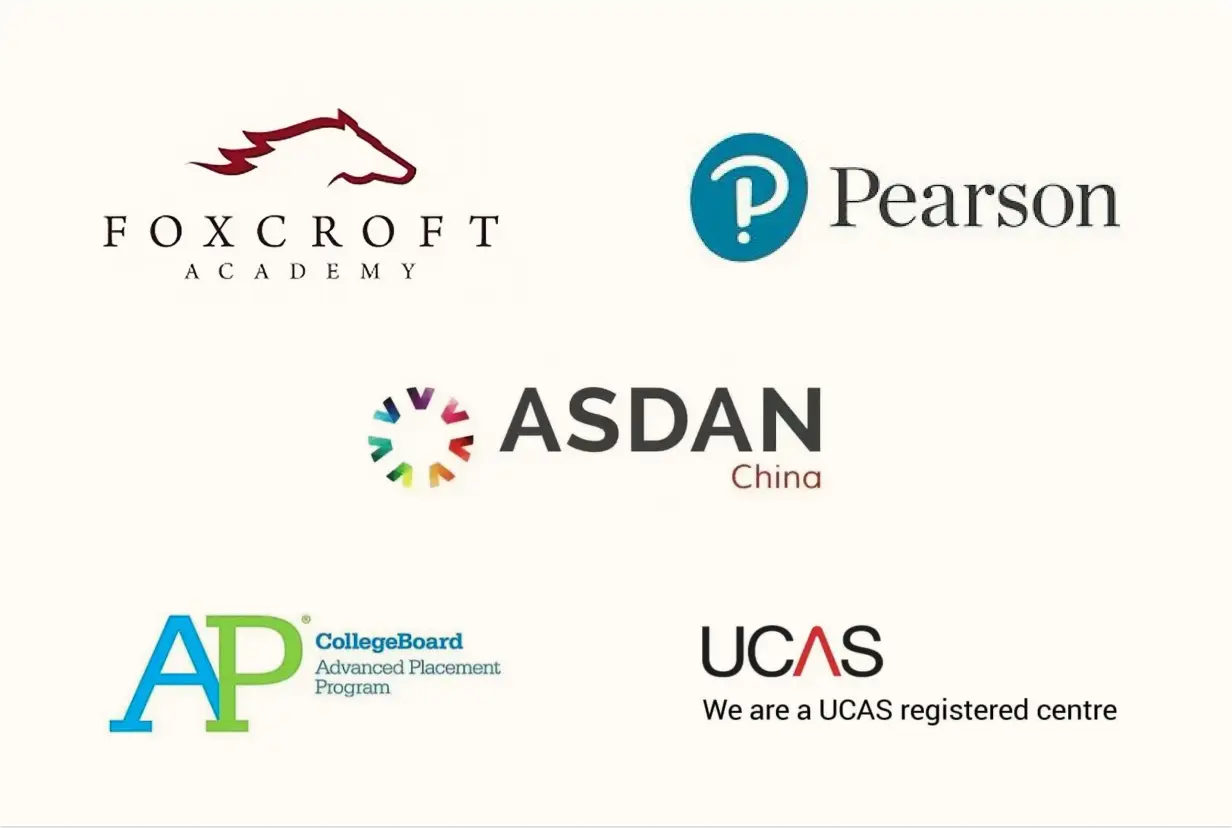
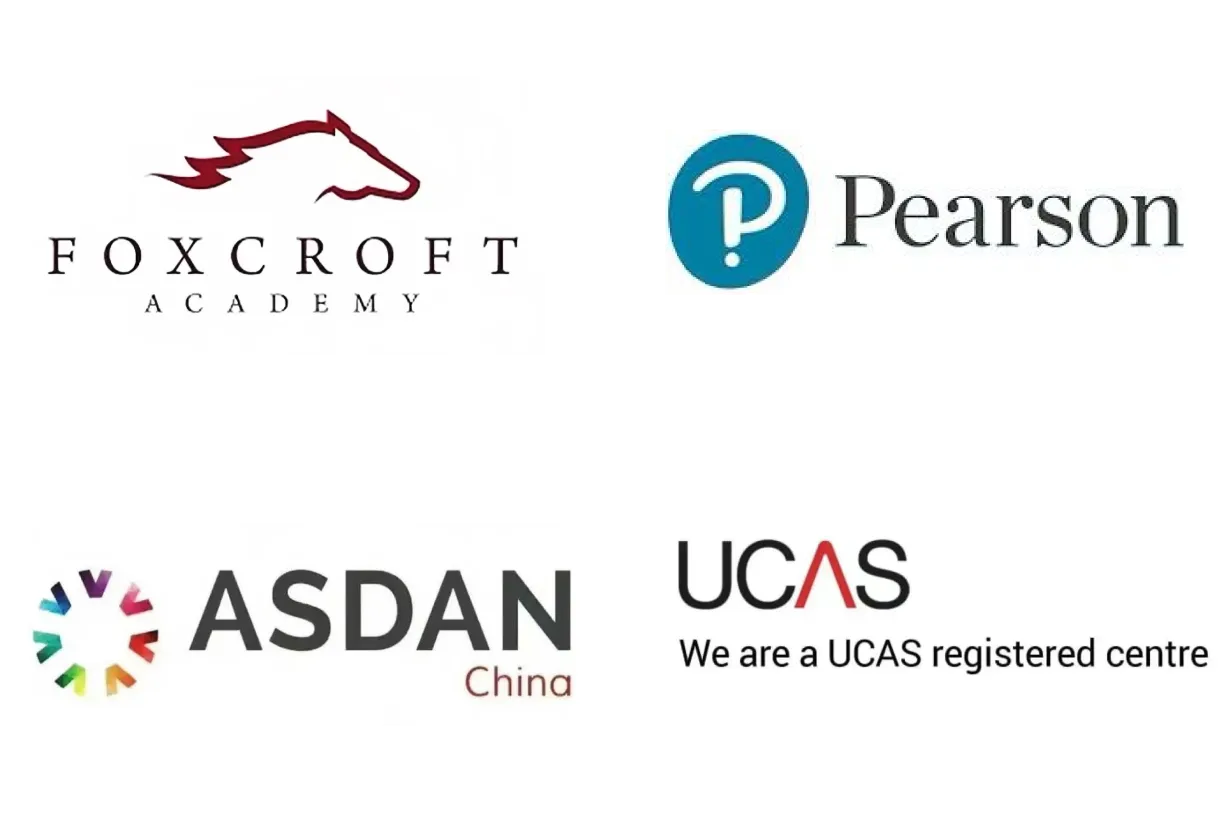
fix 网页内容修改

diff --git a/hsd_website/src/app/zh/course/advantage/advantage.module.scss b/hsd_website/src/app/zh/course/advantage/advantage.module.scss
@@ -127,29 +127,16 @@
                     }
                 }
             }
-            .content_top {
-                margin-top: 2.5rem;
-                display: flex;
-                justify-content: space-between;
-                .picture {
-                    img {
-                        width: 43.13rem;
-                        height: 31.19rem;
-                    }
-                }
-                .lists {
-                    margin-left: 4rem;
-                }
-            }
             .content_bottom {
                 margin-top: 5rem;
                 display: flex;
                 justify-content: space-between;
+                align-items: center;
                 .picture {
                     margin-left: 4rem;
                     img {
                         width: 43.13rem;
-                        height: 37.5rem;
+                        height: auto;
                     }
                 }
             }
@@ -286,30 +273,16 @@
                     }
                 }
             }
-            .content_top {
-                margin-top: 2.5rem;
-                display: flex;
-                justify-content: space-between;
-                align-items: center;
-                .picture {
-                    img {
-                        width: 40rem;
-                        height: 30rem;
-                    }
-                }
-                .lists {
-                    margin-left: 3rem;
-                }
-            }
             .content_bottom {
                 margin-top: 5rem;
                 display: flex;
                 justify-content: space-between;
+                align-items: center;
                 .picture {
                     margin-left: 3rem;
                     img {
                         width: 40rem;
-                        height: 36rem;
+                        height: auto;
                     }
                 }
             }
@@ -443,30 +416,17 @@
                     }
                 }
             }
-            .content_top {
-                margin-top: 2.5rem;
-                display: flex;
-                justify-content: space-between;
-                align-items: center;
-                .picture {
-                    img {
-                        width: 36rem;
-                        height: 27rem;
-                    }
-                }
-                .lists {
-                    margin-left: 2rem;
-                }
-            }
             .content_bottom {
                 margin-top: 5rem;
                 display: flex;
                 justify-content: space-between;
+                align-items: center;
+
                 .picture {
                     margin-left: 2rem;
                     img {
                         width: 36rem;
-                        height: 34rem;
+                        height: auto;
                     }
                 }
             }
@@ -602,21 +562,6 @@
                     }
                 }
             }
-            .content_top {
-                margin-top: 2.5rem;
-                display: flex;
-                justify-content: space-between;
-                align-items: center;
-                .picture {
-                    img {
-                        width: 26rem;
-                        height: 20rem;
-                    }
-                }
-                .lists {
-                    margin-left: 2rem;
-                }
-            }
             .content_bottom {
                 margin-top: 5rem;
                 display: flex;
@@ -626,7 +571,7 @@
                     margin-left: 2rem;
                     img {
                         width: 26rem;
-                        height: 25rem;
+                        height: auto;
                     }
                 }
             }
@@ -757,16 +702,6 @@
                                 }
                             }
                         }
-                    }
-                }
-            }
-            .content_top {
-                margin-top: 2.5rem;
-                .picture {
-                    margin-bottom: 2rem;
-                    img {
-                        width: 100%;
-                        height: auto;
                     }
                 }
             }
@@ -907,16 +842,6 @@
                                 }
                             }
                         }
-                    }
-                }
-            }
-            .content_top {
-                margin-top: 2.5rem;
-                .picture {
-                    margin-bottom: 2rem;
-                    img {
-                        width: 100%;
-                        height: auto;
                     }
                 }
             }

diff --git a/hsd_website/src/app/zh/school/teaching/feature/feature.tsx b/hsd_website/src/app/zh/school/teaching/feature/feature.tsx
@@ -23,7 +23,6 @@ function Feature() {
       tips: [
         { id: 1, label: 'Foxcroft Academy 友好学校' },
         { id: 2, label: 'Edexcel 官方授权考试中心' },
-        { id: 3, label: 'AP授权学校' },
         { id: 4, label: 'UCAS官方注册中心' },
         { id: 5, label: 'ASDAN（阿思丹）国际理科竞赛官方考点' },
       ]
@@ -40,9 +39,9 @@ function Feature() {
       ]
     }, {
       id: 3,
-      title: '体制内管理模式',
+      title: '严格教学落地',
       serial: '03',
-      desc: '作息规律，管理严格，帮助学生提高自主管理能力，力求更好的升学结果',
+      desc: '教学从入校即抓：设置雅思课程，下午补差或竞赛辅导，晚间课程查漏补缺。学科老师与助教共同确保学习效果落地，关注每位学生的全面成长。',
       picture: tfImg3,
       tips: []
     }, {
@@ -53,14 +52,14 @@ function Feature() {
       picture: tfImg4,
       tips: [
         { id: 1, label: '安排每周不少于10节中方英语及外方英语课程' },
-        { id: 2, label: '每周日下午开设公益雅思/托福课程' },
+        { id: 2, label: '开设校内雅思课程' },
         { id: 3, label: '组织英语辩论社团' },
       ]
     }, {
       id: 5,
       title: '个性化升学服务',
       serial: '05',
-      desc: '为每位学生提供科学个性化的一对一申请规划指导，覆盖高一至高三全学段',
+      desc: '为每位学生提供科学个性化的申请规划指导，覆盖高一至高三全学段',
       picture: tfImg5,
       tips: [
         { id: 1, label: '全面评估学术成绩、兴趣特长' },
@@ -74,7 +73,7 @@ function Feature() {
       desc: '科学评估学术表现，科学定制评估体系，全程辅导提升学生成绩。',
       picture: tfImg6,
       tips: [
-        { id: 1, label: '组织月考、期中、期末，全面评估学术表现' },
+        { id: 1, label: '组织周测、期中期末考试，全面评估学术表现' },
         { id: 2, label: '成绩对比目标大学要求，提供科目强化建议' },
         { id: 3, label: '重视每次作业严格评估，确保优质教学质量' },
       ]

diff --git a/hsd_website/src/app/zh/course/advantage/advantage.tsx b/hsd_website/src/app/zh/course/advantage/advantage.tsx
@@ -9,7 +9,6 @@ import A2 from '../../../../../public/img/course/A2.webp'
 
 function Advantage() {
   const [data, setData] = useState([])
-  const [active, setActive] = useState()
   const [activeTwo, setActiveTwo] = useState()
 
   const getData = async () => {
@@ -27,47 +26,6 @@ function Advantage() {
           <h2>拓展课程</h2>
           <p>Extended Course</p>
         </div>
-        {/* <div className={styles.content_top}>
-          <div className={styles.picture}>
-            <Image src={A1} alt=''></Image>
-          </div>
-          <ul className={styles.lists}>
-            {
-              data.slice(0, 3).map((item: any, index: any) => {
-                return (
-                  <li key={item.id}
-                    className={`${styles.list} ${item.id === active ? styles.activeList : ''}`}
-                  >
-                    <div className={styles.list_title} onClick={() => setActive(item.id)}>
-                      <p>{index + 1}.{item.name}</p>
-                      <button className={styles.icon}>
-                        <DoubleRightOutlined />
-                      </button>
-                    </div>
-                    <div className={styles.list_content}>
-                      <p className={styles.description}>{item.description}</p>
-                      <ul>
-                        {
-                          item.advantages.map((i: any) => {
-                            return (
-                              <li key={i.id}>
-                                <div className={styles.des_label}>
-                                  <p>{i.name}:</p>
-                                  <hr />
-                                </div>
-                                <p className={styles.des_value}>{i.details}</p>
-                              </li>
-                            )
-                          })
-                        }
-                      </ul>
-                    </div>
-                  </li>
-                )
-              })
-            }
-          </ul>
-        </div> */}
         <div className={styles.content_bottom}>
           <ul className={styles.lists}>
             {

diff --git a/hsd_website/src/app/zh/school/profile/division/division.tsx b/hsd_website/src/app/zh/school/profile/division/division.tsx
@@ -20,7 +20,7 @@ function Division() {
           </div>
           <div className={styles.article}>
             <p>融合部隶属于华盛达外语学校，推行国际先进的素质教育理念，倡导“外语特色、文理兼容、国际合作”的教育模式，还原英国本土教育理念并实现本地化教学，鼓励学生全面发展。</p>
-            <p>华盛达外语学校是Foxcroft Academy 友好学校，Edexcel官方授权考试中心、AP授权学校、UCAS 官方注册中心、ASDAN（阿思丹）国际理科竞赛的官方考点。</p>
+            <p>华盛达外语学校是Foxcroft Academy 友好学校，Edexcel官方授权考试中心、UCAS 官方注册中心、ASDAN（阿思丹）国际理科竞赛的官方考点。</p>
             <p>融合部面向想要入读QS全球排名前80院校的学生，提供英语、数学、物理、化学、经济、艺术、中文、心理、PE等通识课程，融合雅思课程、托福课程、国际竞赛课程、EPQ项目制课程、PBL项目式课程，旨在为学生打下良好的语言基础，全面提升学术水平，丰富学生背景履历，并助力学生成功进入梦校！</p>
           </div>
         </div>

diff --git a/hsd_website/src/app/zh/school/profile/introduce/introduce.tsx b/hsd_website/src/app/zh/school/profile/introduce/introduce.tsx
@@ -22,7 +22,7 @@ function Introduce() {
             <p>HSD Foreign Language School</p>
           </div>
           <div className={styles.article}>
-            <p>德清县华盛达外语学校被国家基础教育实验中心列为外语实验学校，并融合中西文明而办学，是德清县民办教育发展史的缩影。学校全面贯彻党的教育方针，培养兼具国际视野和中国文化根基的未来精英。</p>
+            <p>德清县华盛达外语学校融合中西文明而办学，学校全面贯彻党的教育方针，培养兼具国际视野和中国文化根基的未来精英。</p>
           </div>
           <button className={styles.link} onClick={() => openNewWindow('http://www.hsdwyxx.com/dept/208.aspx')}>
             <span>Partnership School</span>

diff --git a/hsd_website/src/app/zh/school/moralEducation/feature/feature.tsx b/hsd_website/src/app/zh/school/moralEducation/feature/feature.tsx
@@ -44,9 +44,7 @@ function Feature() {
         { id: 2, label: '明确升学要求和专业方向' },
         { id: 3, label: '确定语言提升、背景提升方案匹配' },
         { id: 4, label: '学生和导师双向选择' },
-        { id: 5, label: '高一完成导师结对，跟踪帮扶三年' },
         { id: 6, label: '从心情情绪、学科成绩、背景提升、升学指导四方面展开帮扶' },
-
       ]
     }, {
       id: 4,

diff --git a/hsd_website/src/app/zh/team/management/page.tsx b/hsd_website/src/app/zh/team/management/page.tsx
@@ -8,8 +8,8 @@ import Research from './research/research'
 function Management() {
   return (
     <>
-      {/* <Banner backImg={bannerImg} title='教研团队' titleEn="Teaching and research team"></Banner> */}
-      {/* <Research></Research> */}
+      <Banner backImg={bannerImg} title='教研团队' titleEn="Teaching and research team"></Banner>
+      <Research></Research>
       <Operation></Operation>
     </>
   )

diff --git a/hsd_website/src/components/layout/headerZh/page.tsx b/hsd_website/src/components/layout/headerZh/page.tsx
@@ -63,10 +63,10 @@ function Header() {
       label: (<Link href="/zh/campusClass">校园风采</Link>),
       key: '/zh/campusClass',
     },
-    // {
-    //   label: (<Link href="/zh/news">新闻资讯</Link>),
-    //   key: '/zh/news',
-    // },
+    {
+      label: (<Link href="/zh/news">新闻资讯</Link>),
+      key: '/zh/news',
+    },
     {
       label: '入学报名',
       key: 'entranceSchool',

diff --git a/hsd_website/src/components/layout/headerEn/page.tsx b/hsd_website/src/components/layout/headerEn/page.tsx
@@ -63,10 +63,10 @@ function Header() {
       label: (<Link href="/en/campusClass">Campus</Link>),
       key: '/en/campusClass',
     },
-    // {
-    //   label: (<Link href="/en/news">Information</Link>),
-    //   key: '/en/news',
-    // },
+    {
+      label: (<Link href="/en/news">Information</Link>),
+      key: '/en/news',
+    },
     {
       label: 'Enrollment',
       key: 'entranceSchool',

diff --git a/hsd_website/src/app/en/school/teaching/feature/feature.tsx b/hsd_website/src/app/en/school/teaching/feature/feature.tsx
@@ -23,7 +23,6 @@ function Feature() {
       tips: [
         { id: 1, label: 'Foxcroft Academy‘s Friendly School' },
         { id: 2, label: 'Edexcel Official Authorized Test Center' },
-        { id: 3, label: 'AP Authorized School' },
         { id: 4, label: 'UCAS Official Registration Center' },
         { id: 5, label: 'ASDAN International Science Competition Official Test Site' },
       ]

diff --git a/hsd_website/src/app/en/joinUs/recruitment/recruitment.tsx b/hsd_website/src/app/en/joinUs/recruitment/recruitment.tsx
@@ -33,7 +33,7 @@ function Recruitment() {
               <Image src={recruitmentImg2} alt=''></Image>
             </div>
             <div className={styles.titleText}>
-              <p>Recruitment Positions (Including Reserves)</p>
+              <p>Recruitment Positions</p>
             </div>
           </div>
           <div className={styles.content}>

diff --git a/hsd_website/src/app/zh/joinUs/recruitment/recruitment.tsx b/hsd_website/src/app/zh/joinUs/recruitment/recruitment.tsx
@@ -33,7 +33,7 @@ function Recruitment() {
               <Image src={recruitmentImg2} alt=''></Image>
             </div>
             <div className={styles.titleText}>
-              <p>招聘岗位（含储备）</p>
+              <p>招聘岗位</p>
             </div>
           </div>
           <div className={styles.content}>
